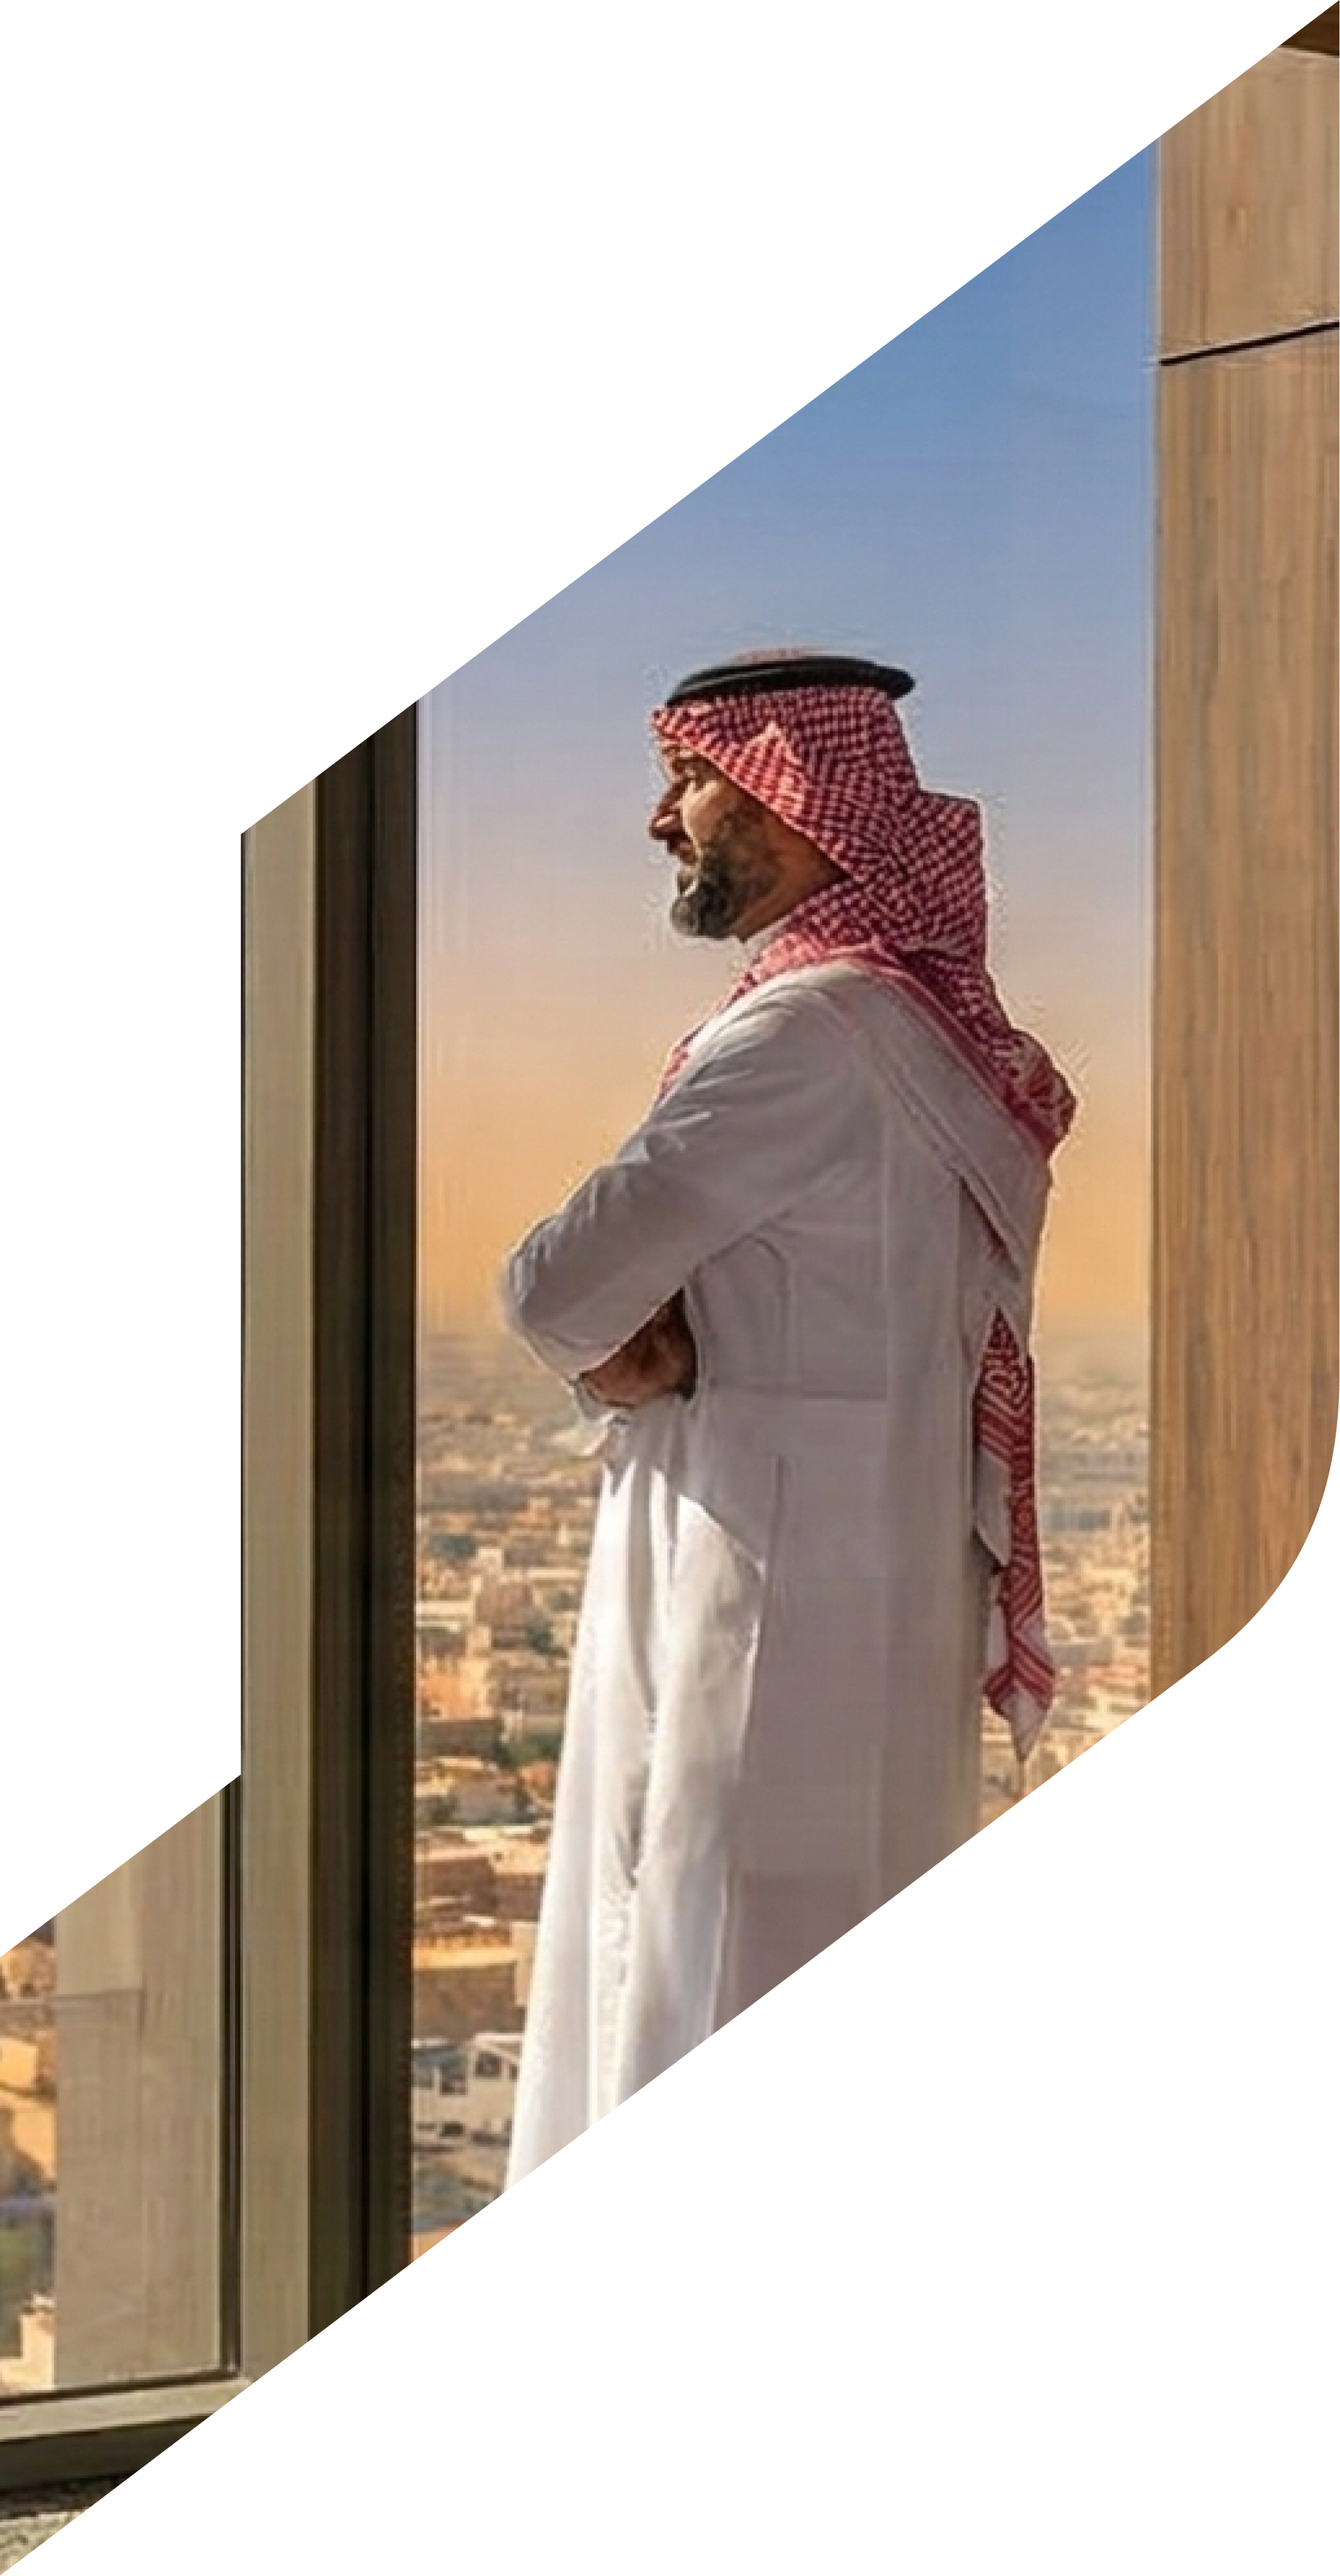
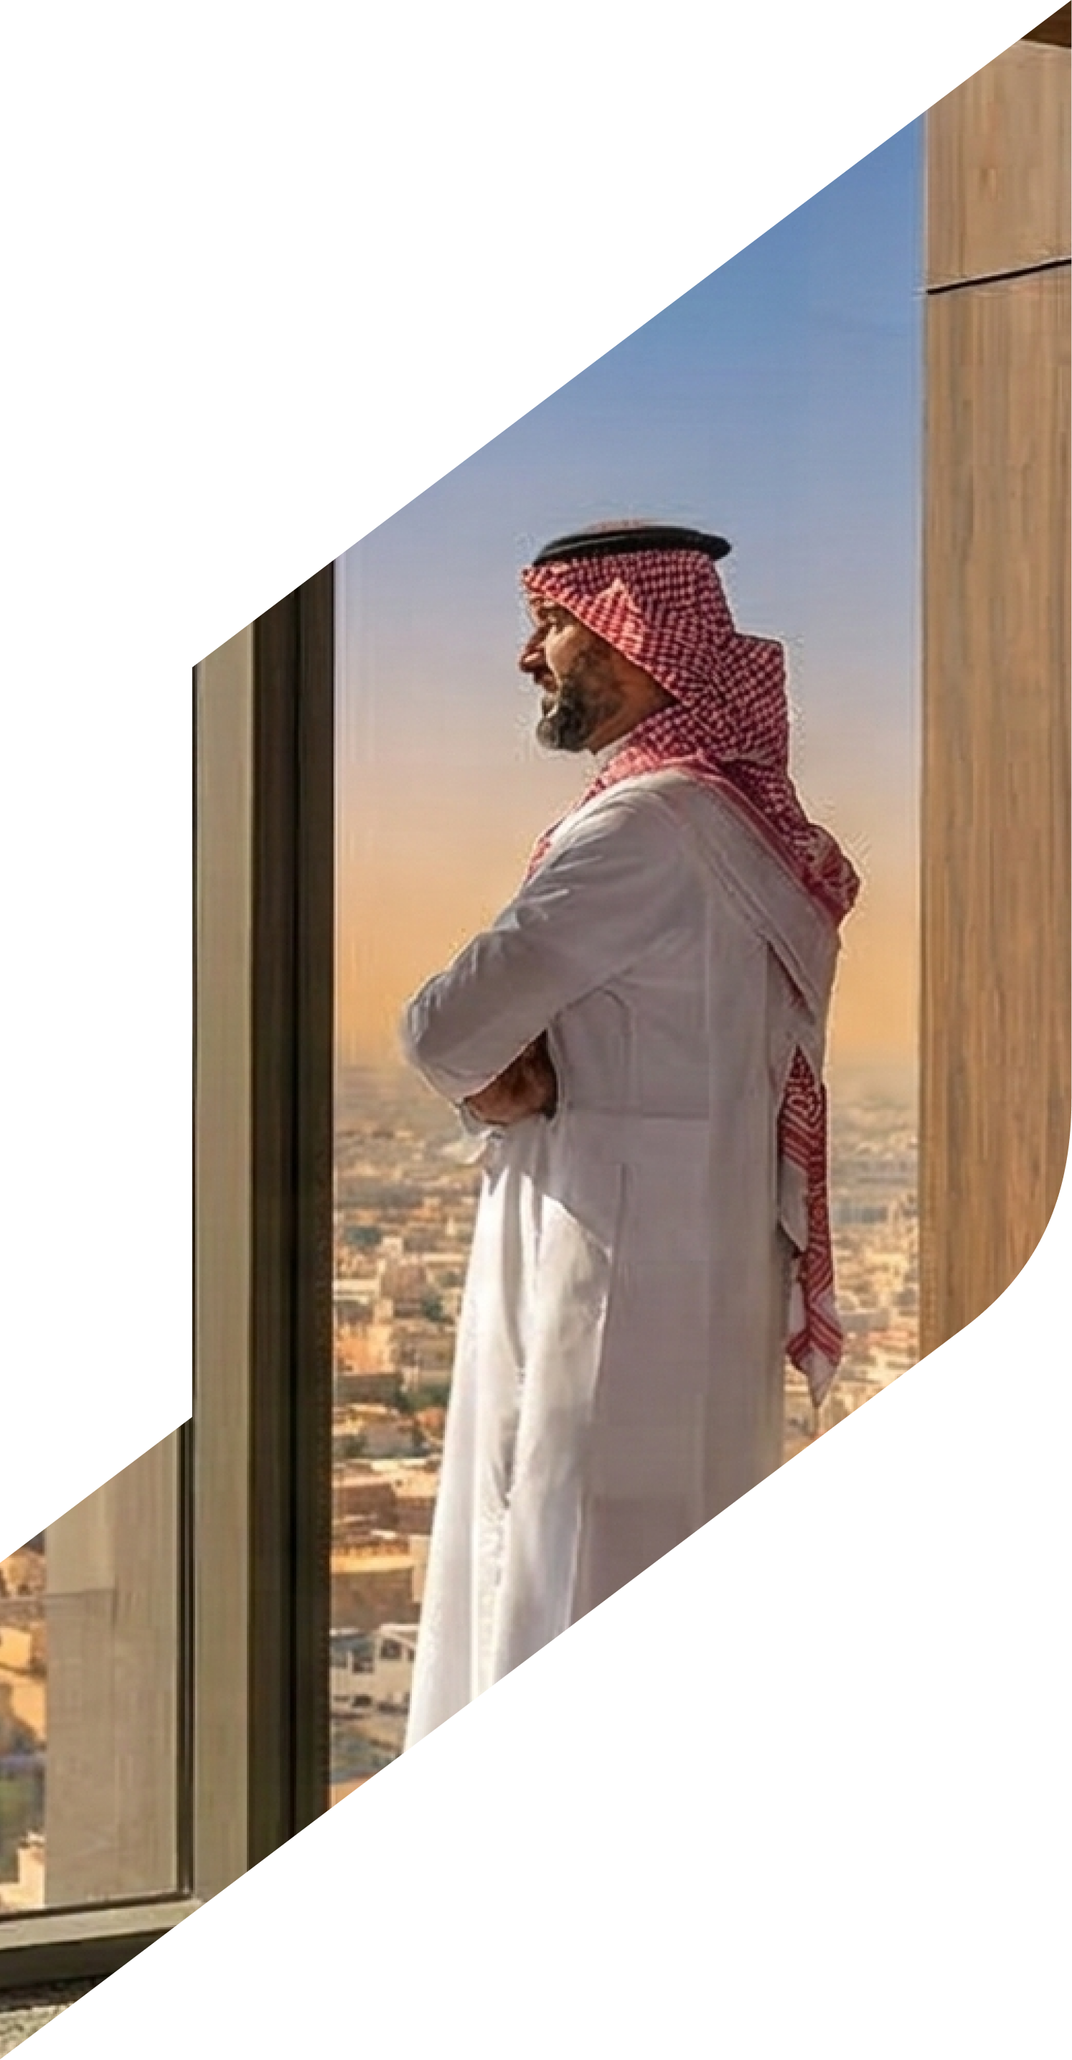
fix: push sustainability image flush left with object-contain and matching bg

diff --git a/src/components/sections/SustainabilitySection.tsx b/src/components/sections/SustainabilitySection.tsx
@@ -137,19 +137,16 @@ export default function SustainabilitySection() {
       <div className="flex flex-col lg:flex-row min-h-screen">
 
         {/* ─── LEFT: Sticky image ─── */}
-        <div className="relative lg:w-[42%] xl:w-[45%] lg:sticky lg:top-0 lg:h-screen flex-shrink-0">
+        <div className="relative lg:w-[42%] xl:w-[45%] lg:sticky lg:top-0 lg:h-screen flex-shrink-0 bg-[#F0EBE4]">
           <div className="relative w-full h-[50vh] lg:h-full overflow-hidden">
             <Image
               src="/images/sustainability/sustainability-hero.png"
               alt="AJB sustainability visual"
               fill
-              className="object-cover object-center"
+              className="object-contain object-left-bottom"
               sizes="(max-width: 1024px) 100vw, 45vw"
               priority
             />
-            {/* Gradient overlay — blends into the light bg on the right */}
-            <div className="absolute inset-0 bg-gradient-to-r from-transparent via-transparent to-[#FAF8F5]/30 hidden lg:block" />
-            <div className="absolute inset-0 bg-gradient-to-t from-[#FAF8F5] via-transparent to-transparent lg:hidden" />
           </div>
         </div>
 
